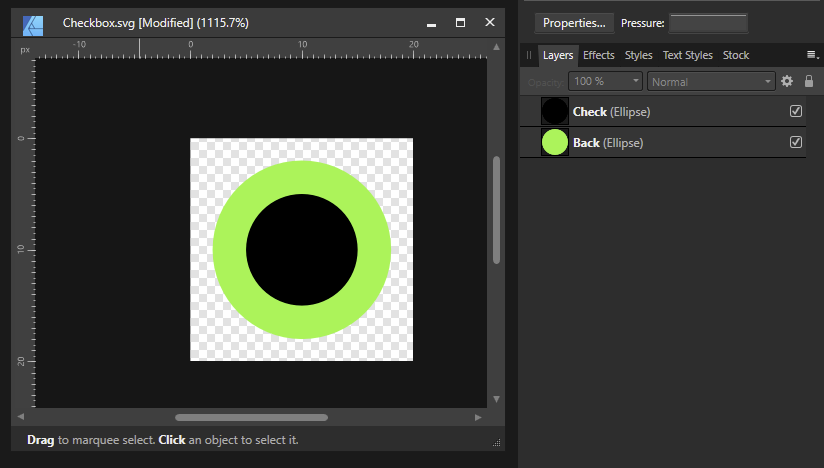
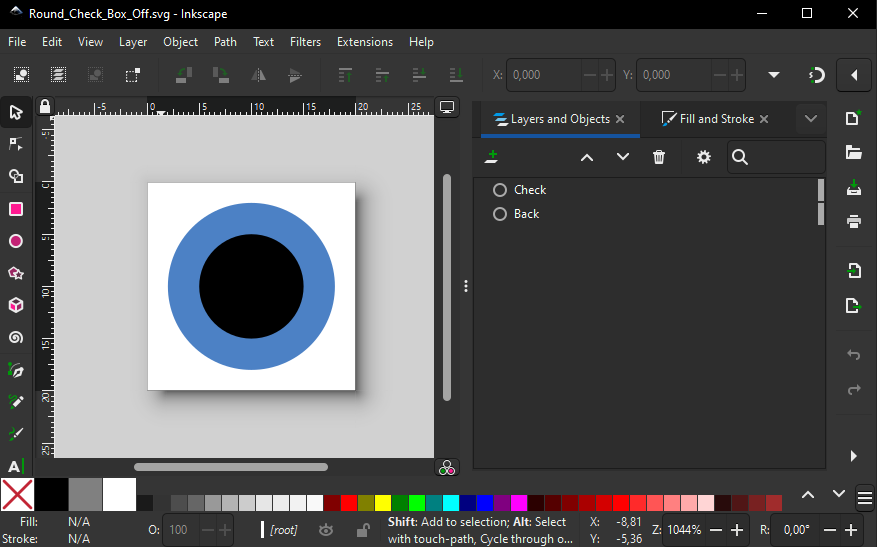
Revised Modifying SVGs with Multiple Objects

diff --git a/src/HALion-Tutorials-Guidelines/pages/Modifying-SVGs-with-Multiple-Objects.md b/src/HALion-Tutorials-Guidelines/pages/Modifying-SVGs-with-Multiple-Objects.md
@@ -10,44 +10,61 @@
 
 ---
 
-If an SVG contains more than one object, their properties can also be changed.
-
-1. Click the + button in the Objects line to add another object
-1. Set the ID of the second object.
-1. Set the properties of the object.
-
-The example below demonstrates how to build a checkbox. {{#include ./_Excerpts.md:single-example}}
-
-## Prerequisites.
-
-* A program with a macro page.
 
 ## Creating a Checkbox Control
 
-1. Create an SVG file, for example in Affinity Designer.
+The example below demonstrates how to build a checkbox with two states, the off-state and on-state, from a single SVG file.
+
+### Creating a SVG file
+
+Before you can build the checkbox in HALion, you need an SVG file with the representation of a typical checkbox, e.g. two concentric circles.
+
+1. Create an SVG file, for example with [Inkscape](https://inkscape.org/), an open source SVG editor.
+2. Add two concentric circles and name them 'Back' for the background of the checkbox and 'Check' for the dot that indicates the checked state.
 
 ![Modifying SVGs with Multiple Objects Checkbox](../images/Modifying-SVGs-with-Multiple-Objects-Checkbox.png)
 
-1. Add two circles and name them 'Back' for the background of the checkbox and 'Check' for the dot that indicates the checked state.
-
-If you open the SVG file in a text editor this might look similar to this:
+By viewing SVG files in a text editor you gain insight about the available objects and their values. If you open the SVG file in a text editor, it might look like this:
 
 ![Modifying SVGs with Multiple Objects Text Editor](../images/Modifying-SVGs-with-Multiple-Objects-Text-Editor.png)
 
-1. Add an SVG resource in the **Resources Tree** and set the Path to the SVG file.
+3. In HALion, open the Macro Page Designer, add an SVG resource in the **Resources Tree** and set the Path to the SVG file.
 
-In this example, the added SVG resource is named 'SVG original' and looks like it was designed in Affinity Designer.
+In this example, the added [SVG](../../HALion-Macro-Page/pages/SVG.md) resource is named 'SVG original' and looks the same as in the SVG editor.
 
-To create the two states of the checkbox:
+![Modifying SVGs with Multiple Objects Original](../images/Modifying-SVGs-with-Multiple-Objects-Original.png)
 
-1. Duplicate the [SVG](../../HALion-Macro-Page/pages/SVG.md) resource two times and name them 'SVG Checkbox Off' and 'SVG Checkbox On'.
-1. In the SVG Checkbox Off resource, adapt the look to your liking. In this example, Back is set to ``fill`` and ``orange`` and Check is set to ``fill`` and ``rgba (0,0,0,0.4)`` which is black with an opacity of 40%.
+### Adding Objects
+
+To edit the objects, you must enter the ID of the object, the property you wish to change and the corresponding values. If an SVG file contains more than one object, these objects and their properties can be added for further editing like this.
+
+1. Go to the **Resource Tree** and select the [SVG](../../HALion-Macro-Page/pages/SVG.md) resource your want to edit.
+1. In the **Objects** line, click **+**.
+1. Set the **ID** of the additional object.
+1. Set the properties and values of the object.
+
+### Creating Multiple Checkbox States
+
+#### Prerequisites.
+
+* A program with a macro page.
+
+#### Creating the Checkbox States
+
+1. Duplicate the [SVG](../../HALion-Macro-Page/pages/SVG.md) resource 'SVG original' and name it 'SVG Checkbox Off'.
+2. In the 'SVG Checkbox Off' resource, add the objects 'Back' and 'Check' as described above in [Adding Objects](#adding-objects).
+3. Adapt the look to your liking. In this example, 'Back' is set to ``fill`` and ``orange`` and 'Check' is set to ``fill`` and ``rgba (0,0,0,0.4)`` which is black with an opacity of 40 %.
 
 ![Modifying SVGs with Multiple Objects Off](../images/Modifying-SVGs-with-Multiple-Objects-Off.png)
 
-1. In the SVG Checkbox On resource, set the ``fill`` property of the Check circle to ``black``.
+4. Duplicate the [SVG](../../HALion-Macro-Page/pages/SVG.md) resource 'SVG Checkbox Off' and name it 'SVG Checkbox On'.
+5. In the 'SVG Checkbox On' resource, set the ``fill`` property of the 'Check' circle to ``black``.
 
 ![Modifying SVGs with Multiple Objects On](../images/Modifying-SVGs-with-Multiple-Objects-On.png)
 
-Now, you have two resources that can be used for the On and Off [Bitmap](../../HALion-Macro-Page/pages/Bitmap.md) resources of a switch.
-Of course, you can derive other variants to implement additional hover state resources, for example.
+6. In the **GUI Tree**, add a [Switch](../../HALion-Macro-Page/pages/Switch.md) control and set its Mode to 'onoff'.
+7. Assign the 'SVG Checkbox Off' and 'SVG Checkbox On' resources to the Bitmaps Off and On respectively.
+
+![Modifying SVGs with Multiple Objects Switch](../images/Modifying-SVGs-with-Multiple-Objects-Switch.png)
+
+If you want, you can create more variants to implement additional hover-state resources, for example.
